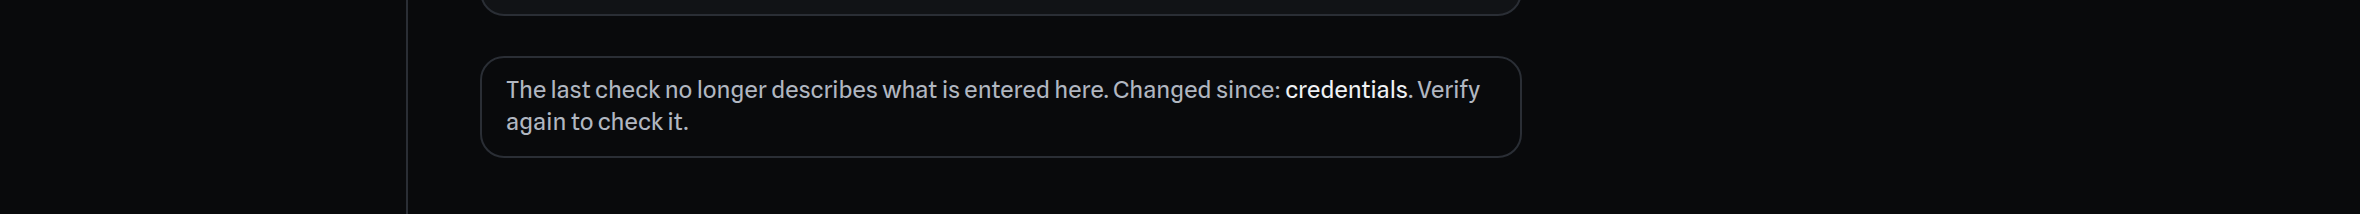
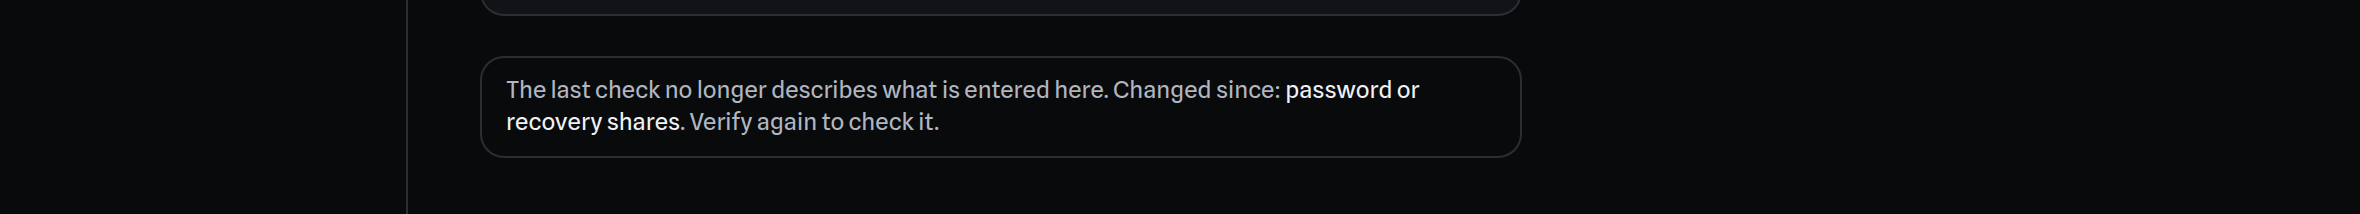
Say "password or recovery shares" in the stale-verify notice
Usability finding S5. When a password or shares were typed after a
verify, the notice said "Changed since: credentials", the page's word
rather than the owner's. It now says "password or recovery shares".

test:backup-workflow and verify-evidence.spec.ts check the new words;
restoring the old one fails the unit checks. 14-verify-stale.png is
recaptured.

Claude-Session: https://claude.ai/code/session_01GbCLpWTtk1prQYV8z6rYHr

Changed region(s): [[0.2165, 0.5327, 0.4021, 0.6168], [0.5258, 0.3645, 0.6496, 0.4766]]

diff --git a/src/lib/verify-evidence.ts b/src/lib/verify-evidence.ts
@@ -25,7 +25,12 @@ export interface VerifiedInput<F> {
 }
 
 /** A part of the form that no longer matches what was checked. */
-export type VerifyChange = "backup" | "key file" | "unlock method" | "credentials";
+/**
+ * Each value is shown to the owner as it is. "password or recovery shares"
+ * replaced "credentials", the page's word rather than theirs (usability
+ * finding S5).
+ */
+export type VerifyChange = "backup" | "key file" | "unlock method" | "password or recovery shares";
 
 /**
  * What changed since the check, in the order the page lists it. Empty when
@@ -49,7 +54,7 @@ export function verifyChanges<F>(
   if (checked.useShares !== now.useShares || checked.usePasskey !== now.usePasskey) {
     changes.push("unlock method");
   }
-  if (typedSince) changes.push("credentials");
+  if (typedSince) changes.push("password or recovery shares");
   return changes;
 }
 

diff --git a/tests/browser/verify-evidence.spec.ts b/tests/browser/verify-evidence.spec.ts
@@ -66,7 +66,8 @@ test("a password typed after the check is not what was checked", async ({ page }
   await expect(passwordField(page)).toHaveValue("");
 
   await passwordField(page).fill("a different password entirely, 2026");
-  await expect(visible(stale(page))).toContainText("Changed since: credentials");
+  await expect(visible(stale(page))).toContainText("Changed since: password or recovery shares");
+  await expect(stale(page)).not.toContainText("credentials");
   await expect(ok(page)).toHaveCount(0);
 
   await passwordField(page).fill("");

diff --git a/docs/reports/USABILITY-2026-09-29.md b/docs/reports/USABILITY-2026-09-29.md
@@ -35,7 +35,7 @@ which `npm run test:screenshots` checks.
 | S2 | **The container pane's first-visit copy promises what it no longer shows.** It says it "itemises the container it will write, header byte by header byte", and its button reads "Show the header it will write". With Format detail off, which is the default since part c, the itemisation shows the ways in and the layout but no header bytes. | **Fixed.** The copy and the button now follow the switch: off, they name the version, the ways in and the layout; on, they keep "header byte by header byte". Checked in `workflow-expert-view.spec.ts`. | Reword to what is shown ("…itemises the container it will write: its version, its ways in and its layout"), or turn Format detail on when the button is pressed. The first is smaller and keeps one switch in charge. |
 | S3 | **The step grid's rows do not line up.** "Check saved copy" and "Prepare recovery" wrap to two lines at this width, so in the second row "Create" sits higher than its neighbours and the three state words sit at two heights. | **Fixed.** Both: the labels are "Saved copy" and "Recovery test", and each step is two rows with the state at the bottom, so a row's labels share a top and its states share a line even where a label still wraps. Checked by measuring the rows in `workflow-steps.spec.ts`. | Shorter labels ("Saved copy", "Recovery"), or a grid that aligns the state words on a common row. |
 | S4 | **"Check saved copy" names only half of what completes it.** Its sentence says "Download it or print the paper vault, then check the copy", but not how to check. The two ways are loading the saved file on the Decrypt tab and verifying it, or photographing every printed symbol on the Recovery tab. The walkthrough now says so; the page does not. | **Fixed.** The step's sentence names both ways, before and after a download or print has started. Checked in `test:backup-workflow`. | Name both ways in the sentence, or link to the Recovery tab's printout check. |
-| S5 | **"credentials" is the page's word, not the owner's.** The stale-verify notice says "Changed since: credentials" for a newly typed password. | Open, minor. | "password or recovery shares". |
+| S5 | **"credentials" is the page's word, not the owner's.** The stale-verify notice says "Changed since: credentials" for a newly typed password. | **Fixed.** The notice now says "password or recovery shares". Checked in `test:backup-workflow` and `verify-evidence.spec.ts`. | "password or recovery shares". |
 | S6 | **Long sentences set in monospace.** The Recovery tab's "Saved copy" and "Recovery test" values are full sentences in the monospace data face, which reads slowly at this length. Predates Section 06. | Open, minor. | Body face for sentences; keep monospace for values such as byte counts. |
 | S7 | **The Format detail label wraps.** "Format detail (header bytes, offsets, KDF parameters)" takes two lines in the pane header at 1180 wide. | **Fixed.** The label is "Format detail"; the list is in a tooltip beside it and in the switch's accessible description. Checked in `workflow-expert-view.spec.ts`. | Keep "Format detail" as the label and move the list into a tooltip or the pane's help text. |
 

diff --git a/CHANGELOG.md b/CHANGELOG.md
@@ -19,6 +19,8 @@
   only when a rehearsal from the shares has opened it.
 
 ### Fixed
+- **The stale-verify notice said "credentials".** It now says "password or
+  recovery shares".
 - **The saved-copy step did not say how to check the copy.** It now names both
   ways: load the saved file on the Decrypt tab and verify it, or photograph
   every printed symbol on the Recovery tab.
